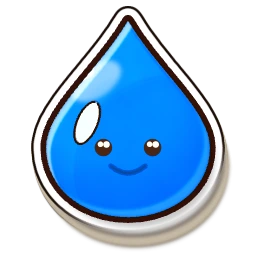
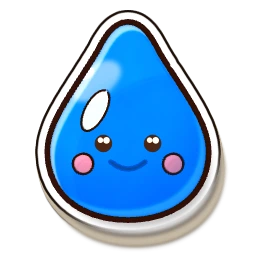
Charmfall: Coral Cove charms. The watercolour storybook keeps its hand and moves to the sea: forty-four charms in six colour rows (starfish, clownfish, scallop, sea turtle, whale, octopus and the ones that arrive every twenty levels), one table in prism/anim/charms-sea.js that the game takes as its 

Changed region(s): [[0.0938, 0.0, 0.9062, 0.875], [0.5625, 0.7812, 0.75, 0.875]]

diff --git a/anim/charms-sea.js b/anim/charms-sea.js
@@ -1,0 +1,78 @@
+// Coral Cove (Mercan Körfezi, 2026-11-10): İdris kept the watercolour storybook and chose a new world for it, the sea. These are its charms:
+// six colour families, one row each, in the order they arrive (two rows change a charm every twenty levels, see rotV in index.html).
+// Shapes in a 100 x 100 box, same format as BLA: b = body parts, d = details. Every body part runs clockwise on screen, because the parts
+// are joined with the non-zero rule and a part wound the other way cuts a hole where it overlaps its neighbour.
+// index.html takes SEA_BL as BL and merges SEA_SHAPES into BLA; bake-charms.cjs paints anim/ch-<name>.webp from the same table.
+(() => {
+  const P = Math.PI, G = "#5cc86e", BR = "#8a5a34", CR = "#fff4e2", OR = "#ffad5a", PK = "#ffb0c4", DK = "#1c1420", YL = "#ffe27a", BLU = "#3a78c8";
+  const star = (n, ro, ri, cx, cy, rot = 0) => ["p", Array.from({ length: n * 2 }, (_, i) => { const r = i % 2 ? ri : ro, a = -P / 2 + rot + i * P / n; return [cx + Math.cos(a) * r, cy + Math.sin(a) * r]; })];
+  const face = (y, w, cx = 50) => [["k", cx - w, y, 4.5], ["k", cx + w, y, 4.5], ["d", cx - w + 1.5, y - 1.5, 1.6], ["d", cx + w + 1.5, y - 1.5, 1.6], ["S", `M${cx - w * .7} ${y + 9} Q${cx} ${y + 16} ${cx + w * .7} ${y + 9}`, 3.4]];
+  const cheeks = (y, w, cx = 50) => [["f", ["c", cx - w, y, 5], PK], ["f", ["c", cx + w, y, 5], PK]];
+  const eye = (x, y, r = 4.6) => [["k", x, y, r], ["d", x - r * .3, y - r * .3, r * .36]];
+  const bigEye = (x, y, r = 9) => [["w", ["c", x, y, r]], ["k", x + r * .1, y + r * .1, r * .55], ["d", x - r * .15, y - r * .2, r * .2]];
+  const puffStar = (() => { let d = ""; for (let k = 0; k < 5; k++) { const a = -P / 2 + k * 2 * P / 5, a2 = a + P / 5, a0 = a - P / 5, pt = (ang, r) => `${(50 + Math.cos(ang) * r).toFixed(1)} ${(54 + Math.sin(ang) * r).toFixed(1)}`;
+    d += (k ? "L" : "M") + pt(a0, 22) + ` C${pt(a - .22, 40)} ${pt(a - .16, 50)} ${pt(a, 50)} C${pt(a + .16, 50)} ${pt(a + .22, 40)} ${pt(a2, 22)} `; } return d + "Z"; })();
+  const WHALE = "M4 58 C4 34 26 24 50 26 C74 28 88 42 88 58 C86 80 64 90 42 90 C20 90 4 78 4 58 Z";
+
+  const S = {
+    // ---------------- rose: slot 0 ----------------
+    starfish: { b: [puffStar], d: [...face(52, 8), ...cheeks(60, 15), ...[[50, 22], [50, 34], [24, 46], [76, 46], [34, 80], [66, 80]].map(([x, y]) => ["o", x, y])] },
+    crab: { b: [["c", 13, 30, 13], ["c", 87, 30, 13], "M14 36 L26 34 L34 56 L22 60 Z", "M86 36 L78 60 L66 56 L74 34 Z", ["e", 12, 74, 11, 5.5, -.5], ["e", 88, 74, 11, 5.5, .5], ["e", 20, 88, 10, 5, -.3], ["e", 80, 88, 10, 5, .3], ["c", 38, 26, 9], ["c", 62, 26, 9], "M34 30 L42 30 L44 44 L36 44 Z", "M58 30 L66 30 L64 44 L56 44 Z", ["e", 50, 64, 35, 27, 0]],
+      d: [...bigEye(38, 26, 6.5), ...bigEye(62, 26, 6.5), ["S", "M6 24 L16 31 M94 24 L84 31", 3], ["S", "M40 70 Q50 79 60 70", 3.4], ...cheeks(68, 22), ["w", ["e", 38, 48, 9, 4, -.3]]] },
+    coral: { b: [["e", 50, 76, 10, 22, 0], ["e", 36, 52, 9, 24, -.5], ["e", 64, 52, 9, 24, .5], ["e", 50, 36, 9, 28, 0], ["e", 20, 58, 7.5, 16, -1.15], ["e", 80, 58, 7.5, 16, 1.15], ["c", 50, 10, 10], ["c", 25, 30, 10], ["c", 75, 30, 10], ["c", 7, 52, 8], ["c", 93, 52, 8], ["e", 50, 95, 30, 5, 0]], d: [["w", ["e", 46, 9, 4, 2.4, -.4]], ["w", ["e", 22, 28, 4, 2.4, -.4]], ["w", ["e", 72, 28, 4, 2.4, -.4]], ...[[50, 30], [50, 52], [36, 50], [64, 50], [50, 74], [22, 56], [78, 56]].map(([x, y]) => ["o", x, y])] },
+    lifebuoy: { b: [["c", 50, 50, 46]], d: [["w", "M36 6 L64 6 L60 30 L40 30 Z"], ["w", "M36 94 L64 94 L60 70 L40 70 Z"], ["w", "M6 36 L6 64 L30 60 L30 40 Z"], ["w", "M94 36 L94 64 L70 60 L70 40 Z"], ["f", ["c", 50, 50, 20], "#eadfc8"], ["S", "M50 30 A20 20 0 1 1 49.9 30", 2.6]] },
+    anemone: { b: [...[-3, -2, -1, 0, 1, 2, 3].map(k => ["e", 50 + k * 12.5, 36 + Math.abs(k) * 4, 7.5, 26 - Math.abs(k) * 2, k * .2]), "M10 98 C10 68 28 56 50 56 C72 56 90 68 90 98 Z"], d: [...[-3, -2, -1, 0, 1, 2, 3].map(k => ["w", ["c", 50 + k * 12.5 - Math.sin(k * .2) * 20, 16 + Math.abs(k) * 6.5, 3.2]]), ...face(76, 12), ...cheeks(86, 24)] },
+    sailboat: { b: ["M4 66 L96 66 C92 84 78 96 60 96 L38 96 C22 96 8 84 4 66 Z", "M54 2 C78 18 90 40 92 60 L54 60 Z", "M46 14 L46 60 L10 60 C14 40 28 22 46 14 Z"], d: [["w", "M58 12 C74 26 82 42 85 55 L58 55 Z"], ["w", "M42 24 L42 55 L18 55 C22 42 30 31 42 24 Z"], ["S", "M50 4 L50 66", 3.4], ["s", "M12 74 L88 74", 2.4], ["w", ["c", 36, 84, 4.5]], ["w", ["c", 64, 84, 4.5]]] },
+    snapper: { b: ["M30 26 L38 6 L48 16 L58 6 L66 28 Z", "M4 52 C14 30 40 20 62 28 C70 32 76 38 80 44 L98 26 C94 44 94 60 98 78 L80 60 C74 74 56 86 36 84 C20 82 8 68 4 52 Z"], d: [...bigEye(24, 46, 7.5), ["S", "M40 34 Q48 54 40 76", 2.8], ["S", "M8 60 Q14 65 20 61", 3], ["w", "M14 66 C30 80 56 80 72 66 C58 84 28 86 14 66 Z"], ["f", "M48 56 L64 52 L58 68 Z", OR]] },
+    cockle: { b: ["M50 24 C58 6 96 8 94 40 C92 66 66 82 50 96 C34 82 8 66 6 40 C4 8 42 6 50 24 Z"], d: [["S", "M50 30 L50 90", 2.6], ["S", "M34 22 Q30 54 44 84", 2.4], ["S", "M66 22 Q70 54 56 84", 2.4], ["S", "M18 30 Q16 52 32 72", 2.2], ["S", "M82 30 Q84 52 68 72", 2.2], ["w", ["e", 26, 28, 6, 10, .5]]] },
+    // ---------------- orange: slot 1 ----------------
+    clown: { b: ["M66 50 L96 20 C90 40 90 60 96 80 Z", ["e", 42, 50, 38, 31, 0]], d: [["w", "M30 21 Q22 50 30 79 L42 81 Q34 50 42 19 Z"], ["w", "M58 22 Q52 50 58 78 L67 73 Q62 50 67 27 Z"], ["f", "M40 20 C46 8 58 8 62 20 Z", OR], ...eye(18, 46, 5), ["S", "M10 58 Q16 63 22 59", 3]] },
+    nautilus: { b: [["e", 80, 66, 19, 24, .25], ["c", 44, 50, 40]], d: [["f", ["e", 82, 68, 12, 17, .25], CR], ["S", "M46 52 C46 44 56 42 60 50 C64 60 54 70 42 68 C28 66 22 48 30 36 C38 24 60 20 74 34", 3], ["S", "M30 36 L14 28 M24 52 L6 54 M34 66 L22 82 M52 70 L52 88", 2.4], ...eye(82, 64, 4), ["S", "M78 74 Q82 77 86 74", 2]] },
+    goldfish: { b: ["M66 50 L96 22 C90 40 90 60 96 78 Z", ["e", 42, 50, 38, 32, 0]], d: [["f", "M36 20 C42 8 58 8 62 20 Z", OR], ["f", "M34 80 C40 90 52 92 56 80 Z", OR], ...bigEye(24, 44, 9), ["S", "M42 62 Q48 66 54 62", 3], ["S", "M50 34 Q56 50 50 66", 2.6]] },
+    seahorse: { b: ["M42 6 C60 2 74 14 74 30 C74 40 70 46 72 56 C76 70 72 84 58 92 C44 98 28 92 28 78 C28 66 42 62 50 70 C54 76 50 84 44 80 C46 88 58 86 60 76 C62 66 52 60 48 52 C44 44 46 38 42 34 L22 40 C14 41 12 32 20 30 L38 24 C34 16 36 8 42 6 Z", "M72 36 C86 34 92 48 78 58 Z"], d: [...eye(52, 22, 4.4), ["f", "M72 38 C82 38 86 46 78 54 Z", YL], ["S", "M52 42 L62 40 M54 52 L66 52 M60 64 L70 66", 2.4], ["f", ["c", 44, 30, 4], PK], ["w", ["e", 60, 14, 6, 3, .5]]] },
+    buoy: { b: [["c", 50, 10, 9], "M40 14 L60 14 L72 60 C88 62 98 70 98 80 C98 92 76 98 50 98 C24 98 2 92 2 80 C2 70 12 62 28 60 Z"], d: [["f", ["c", 50, 10, 6], YL], ["w", "M37 28 L63 28 L67 44 L33 44 Z"], ["w", "M6 78 C20 72 80 72 94 78 C92 84 80 88 50 88 C20 88 8 84 6 78 Z"], ["s", "M44 18 L56 18", 2]] },
+    anchor: { b: [["c", 50, 13, 13], "M42 22 L58 22 L58 84 L42 84 Z", "M24 32 C24 29 26 28 28 28 L72 28 C74 28 76 29 76 32 L76 40 C76 43 74 44 72 44 L28 44 C26 44 24 43 24 40 Z", "M2 52 L24 46 L22 60 C28 74 38 80 50 80 C62 80 72 74 78 60 L76 46 L98 52 L92 74 C84 90 68 99 50 99 C32 99 16 90 8 74 Z"], d: [["f", ["c", 50, 13, 6], "#eadfc8"], ["S", "M50 7 A6 6 0 1 1 49.9 7", 2], ["w", ["e", 46, 56, 2.5, 14, 0]], ["s", "M30 34 L70 34", 2.2], ["s", "M16 76 Q32 92 50 92", 2.4]] },
+    helmet: { b: [["c", 50, 46, 42], "M12 76 L88 76 L96 98 L4 98 Z", ["c", 8, 46, 8], ["c", 92, 46, 8]], d: [["w", ["c", 50, 46, 26]], ["f", ["c", 50, 46, 20], BLU], ["d", 42, 38, 4], ["S", "M30 46 L70 46 M50 26 L50 66", 2.4], ["k", 50, 12, 3], ["k", 22, 28, 3], ["k", 78, 28, 3], ["s", "M14 86 L86 86", 2.6], ["k", 28, 92, 2.6], ["k", 50, 92, 2.6], ["k", 72, 92, 2.6]] },
+    prawn: { b: ["M8 34 C10 14 34 4 56 8 C82 12 96 34 92 56 C88 78 68 92 46 92 L30 98 L34 86 L22 90 L30 78 C46 80 64 72 68 56 C72 40 58 30 44 32 C36 34 32 40 30 46 L18 44 C10 44 6 40 8 34 Z"], d: [...eye(26, 24, 4.4), ["S", "M52 10 Q50 22 44 32", 2.6], ["S", "M72 16 Q64 28 60 36", 2.6], ["S", "M88 36 Q76 42 68 48", 2.6], ["S", "M90 60 Q78 60 68 60", 2.6], ["S", "M76 80 Q68 72 62 68", 2.6], ["S", "M12 30 Q2 22 2 10 M16 28 Q12 16 16 4", 2.4], ["f", ["c", 34, 34, 3.6], PK]] },
+    // ---------------- yellow: slot 2 ----------------
+    shell: { b: ["M50 94 L34 88 L30 78 C8 66 2 42 14 26 C24 10 40 6 50 6 C60 6 76 10 86 26 C98 42 92 66 70 78 L66 88 Z"], d: [["S", "M50 80 L20 32", 2.8], ["S", "M50 80 L34 14", 2.8], ["S", "M50 80 L50 8", 2.8], ["S", "M50 80 L66 14", 2.8], ["S", "M50 80 L80 32", 2.8], ["w", ["e", 30, 30, 5, 10, .5]]] },
+    puffer: { b: [star(14, 49, 36, 50, 52), ["c", 50, 52, 38], "M84 44 L99 34 C96 46 96 58 99 70 L84 60 Z"], d: [...bigEye(34, 44, 9), ...bigEye(62, 44, 9), ["f", ["e", 48, 66, 8, 5.5, 0], "#ff8a5a"], ["S", "M42 66 L54 66", 2.2], ["w", "M20 70 C34 86 62 86 76 70 C64 80 32 80 20 70 Z"], ...cheeks(58, 27, 48)] },
+    submarine: { b: ["M54 2 L68 2 L68 11 L61 11 L61 22 L54 22 Z", "M38 20 L64 20 C67 20 68 22 68 25 L68 42 L34 42 L34 25 C34 22 35 20 38 20 Z", ["e", 96, 62, 4, 16, 0], ["e", 48, 64, 46, 27, 0]], d: [...[24, 48, 72].flatMap(x => [["w", ["c", x, 62, 9.5]], ["f", ["c", x, 62, 6.5], BLU], ["d", x - 2, 60, 1.8]]), ["s", "M10 80 Q48 92 86 80", 2.6], ["S", "M36 42 L66 42", 2.6], ["w", ["e", 30, 44, 10, 3, -.2]]] },
+    angelfish: { b: ["M6 50 C18 34 32 28 44 26 L62 0 L66 28 C76 34 82 42 84 46 L99 28 C95 44 95 56 99 72 L84 54 C82 58 76 66 66 72 L62 100 L44 74 C32 72 18 66 6 50 Z"], d: [["f", "M36 28 L46 26 Q40 50 46 74 L36 72 Q30 50 36 28 Z", DK], ["f", "M58 22 L66 28 Q62 50 66 72 L58 80 Q52 50 58 22 Z", DK], ...eye(20, 46, 4.4), ["S", "M10 56 Q15 60 20 57", 2.6], ["w", ["e", 50, 14, 3, 7, .5]]] },
+    coin: { b: [["c", 50, 50, 46]], d: [["S", "M50 14 A36 36 0 1 1 49.9 14", 3], ["f", star(5, 22, 10, 50, 51), "#c8860a"], ["w", ["e", 28, 26, 9, 4, -.7]], ...[0, 1, 2, 3, 4, 5, 6, 7].map(k => ["o", 50 + Math.cos(k * P / 4 + .4) * 41, 50 + Math.sin(k * P / 4 + .4) * 41])] },
+    sandcastle: { b: ["M50 20 L50 0 L68 7 L50 14 Z", "M6 98 L12 54 L88 54 L94 98 Z", "M10 56 L10 30 L18 30 L18 36 L24 36 L24 30 L32 30 L32 56 Z", "M68 56 L68 30 L76 30 L76 36 L82 36 L82 30 L90 30 L90 56 Z", "M36 56 L36 16 L44 16 L44 23 L56 23 L56 16 L64 16 L64 56 Z"], d: [["f", "M51 1 L67 7 L51 13 Z", "#e8304a"], ["f", "M41 98 L41 78 C41 68 59 68 59 78 L59 98 Z", "#8a5a34"], ["k", 21, 46, 3.4], ["k", 79, 46, 3.4], ["k", 50, 38, 4], ["s", "M14 64 L86 64", 2.2], ...[[24, 78], [76, 80], [30, 90], [70, 68]].map(([x, y]) => ["o", x, y])] },
+    crown: { b: ["M6 86 L2 26 L28 50 L50 8 L72 50 L98 26 L94 86 C80 94 20 94 6 86 Z", ["c", 2, 24, 6], ["c", 50, 8, 7], ["c", 98, 24, 6]], d: [["f", ["c", 50, 66, 8], "#e8304a"], ["f", ["c", 26, 70, 5.5], BLU], ["f", ["c", 74, 70, 5.5], BLU], ["d", 48, 64, 2.2], ["S", "M8 80 Q50 90 92 80", 2.8], ["w", ["e", 40, 34, 3, 9, .5]]] },
+    // ---------------- green: slot 3 ----------------
+    turtle: { b: [["c", 86, 56, 13], ["e", 22, 84, 11, 8, 0], ["e", 68, 84, 11, 8, 0], "M4 72 C4 36 24 14 48 14 C72 14 92 36 92 72 Z"], d: [["f", "M30 44 L48 32 L66 44 L62 62 L34 62 Z", "#137a26"], ["S", "M48 14 L48 32 M30 44 L12 40 M66 44 L84 40 M34 62 L24 72 M62 62 L72 72", 3], ...eye(90, 52, 3), ["S", "M86 62 Q90 65 94 62", 2.2]] },
+    kelp: { b: ["M38 96 C22 78 50 64 36 46 C24 30 50 18 44 0 C68 16 52 34 62 50 C76 68 50 80 62 96 Z", "M16 96 C8 82 26 74 18 60 C12 50 24 44 22 34 C38 46 28 58 34 70 C40 82 28 88 34 96 Z", "M66 96 C62 86 76 78 70 66 C66 58 76 52 76 44 C90 56 80 64 84 74 C88 84 80 90 84 96 Z", ["e", 50, 95, 44, 5, 0]], d: [["S", "M44 10 C54 28 38 44 50 60 C58 72 46 84 50 94", 2.4], ["S", "M24 42 C30 54 20 64 28 76 C32 84 26 90 26 94", 2], ["S", "M76 50 C82 60 72 68 78 78 C82 86 76 90 76 94", 2], ["w", ["e", 40, 24, 3, 7, .3]]] },
+    bottle: { b: ["M39 0 L61 0 L61 12 L58 12 L58 30 C76 36 86 48 86 62 L86 86 C86 93 81 98 74 98 L26 98 C19 98 14 93 14 86 L14 62 C14 48 24 36 42 30 L42 12 L39 12 Z"], d: [["f", "M40 1 L60 1 L60 11 L40 11 Z", "#a8703c"], ["f", "M30 56 L68 50 L71 78 L33 84 Z", CR], ["S", "M36 64 L62 60 M37 72 L63 68", 2], ["f", "M47 52 L55 51 L58 82 L50 83 Z", "#e8304a"], ["w", ["e", 23, 62, 3, 14, 0]], ["s", "M44 16 L56 16", 2]] },
+    palm: { b: ["M50 32 C36 26 20 24 4 30 C14 12 36 8 52 22 Z", "M48 22 C64 8 86 12 96 30 C80 24 64 26 50 32 Z", "M44 32 C34 20 24 10 10 6 C26 2 42 12 50 28 Z", "M50 28 C58 12 74 2 90 6 C76 10 66 20 56 32 Z", "M50 40 C38 40 26 46 14 56 C20 40 34 30 48 30 Z", "M52 30 C66 30 80 40 86 56 C74 46 62 40 50 40 Z", ["c", 51, 29, 9], "M44 86 C42 66 44 50 47 34 L57 34 C56 50 56 68 58 86 Z", ["e", 50, 88, 46, 11, 0]], d: [["f", "M45.5 84 C43.5 66 45.5 50 48 36 L56 36 C55 50 55 68 56.5 84 Z", "#a8703c"], ["S", "M46 48 L56 49 M45 59 L56 60 M45 70 L57 71", 2.2], ["f", ["e", 50, 88, 44, 9.5, 0], "#f0d48a"], ["k", 46, 34, 4.4], ["k", 56, 35, 4.4], ["S", "M10 28 Q30 20 46 26 M90 28 Q70 20 54 26", 2]] },
+    mertail: { b: ["M50 98 C28 82 28 60 38 44 C42 36 44 30 42 24 C28 28 12 20 4 4 C24 2 42 6 50 18 C58 6 76 2 96 4 C88 20 72 28 58 24 C56 30 58 36 62 44 C72 60 72 82 50 98 Z"], d: [["s", "M36 56 Q43 50 50 56 Q57 50 64 56", 2.4], ["s", "M34 68 Q42 62 50 68 Q58 62 66 68", 2.4], ["s", "M40 80 Q45 75 50 80 Q55 75 60 80", 2.4], ["S", "M12 8 Q30 12 44 22 M88 8 Q70 12 56 22", 2.2], ["w", ["e", 40, 42, 3, 6, .4]]] },
+    eel: { b: ["M6 30 C6 14 24 6 40 10 C58 14 64 30 56 44 C50 54 38 58 40 68 C42 76 54 78 64 74 C76 70 86 58 98 62 C96 80 80 94 58 96 C36 98 18 88 16 70 C14 54 30 46 36 36 C38 32 34 30 30 32 C22 38 8 40 6 30 Z"], d: [...bigEye(24, 20, 6), ["S", "M8 30 Q16 34 24 31", 2.6], ["s", "M44 16 C56 22 56 34 48 44 C40 52 30 58 30 70 C30 82 44 90 60 88", 2.4], ...[[46, 28], [26, 62], [36, 84], [70, 84], [84, 72]].map(([x, y]) => ["o", x, y])] },
+    wrasse: { b: ["M34 28 C42 12 60 12 66 30 Z", "M70 50 L98 24 C93 42 93 58 98 76 Z", "M4 50 C10 30 30 22 48 22 C66 22 78 34 82 50 C78 66 66 78 48 78 C30 78 10 70 4 50 Z"], d: [...bigEye(24, 44, 8), ["S", "M38 28 Q46 50 38 72", 2.6], ["s", "M52 36 Q58 50 52 64", 2.4], ["s", "M64 40 Q68 50 64 60", 2.4], ["S", "M8 56 Q14 61 20 57", 2.8], ["f", "M40 78 C46 88 56 88 58 76 Z", YL]] },
+    // ---------------- blue: slot 4 ----------------
+    whale: { b: ["M78 50 L92 26 C100 42 98 60 88 68 Z", WHALE], d: [...eye(24, 52, 4.2), ["w", "M10 70 C28 84 56 86 76 74 C60 92 22 92 10 70 Z"], ["S", "M12 62 Q18 67 24 63", 3], ["f", ["c", 34, 62, 5], PK], ["S", "M46 26 Q42 14 34 12 M48 26 Q52 14 60 12", 2.6]] },
+    dolphin: { b: ["M50 24 C54 10 66 4 76 6 C72 14 72 22 74 28 Z", "M2 50 L16 46 C26 30 46 22 64 26 C82 30 94 44 98 62 C98 72 96 84 92 96 L84 82 L70 88 C76 80 78 72 76 66 C64 70 50 70 38 66 C28 64 20 60 14 58 Z", "M44 64 C40 78 30 84 22 84 C26 76 28 70 30 62 Z"], d: [...eye(34, 44, 4.2), ["w", "M18 56 C34 66 58 68 76 62 C62 72 34 72 18 56 Z"], ["S", "M6 51 Q14 54 22 52", 2.6], ["f", ["c", 42, 52, 4], PK]] },
+    drop: { b: ["M50 4 C56 4 60 10 64 18 C76 38 88 52 88 66 C88 86 72 98 50 98 C28 98 12 86 12 66 C12 52 24 38 36 18 C40 10 44 4 50 4 Z"], d: [...face(62, 12), ...cheeks(72, 22), ["w", ["e", 34, 46, 5, 11, .5]]] },
+    wave: { b: ["M2 98 L2 62 C2 30 26 6 56 6 C80 6 96 22 96 40 C96 56 84 66 72 62 C62 58 60 48 66 42 C54 40 44 50 46 62 C48 78 66 84 98 84 L98 98 Z"], d: [["w", "M8 60 C10 34 30 12 56 12 C76 12 90 24 90 40 C90 50 82 58 74 56 C84 50 84 36 76 28 C62 16 30 22 20 56 C18 64 18 74 22 84 L8 84 Z"], ["s", "M30 74 Q38 88 60 90", 2.4], ["s", "M34 60 Q36 72 46 78", 2.2], ["w", ["c", 90, 70, 3.2]], ["w", ["c", 80, 74, 2.4]]] },
+    shark: { b: ["M46 36 L58 6 C70 16 76 30 76 42 Z", "M2 56 C16 38 40 32 62 36 C76 38 86 46 90 50 L99 30 C96 46 96 62 99 80 L88 64 C76 78 54 84 36 80 C20 76 8 68 2 56 Z", "M40 78 L34 96 L56 82 Z"], d: [...eye(22, 50, 4), ["w", "M6 60 C22 76 52 80 80 66 C60 84 24 84 6 60 Z"], ["w", "M8 60 L12 66 L16 61 L20 67 L24 62 L28 68 L32 63 L32 60 Z"], ["S", "M42 46 L42 62 M48 46 L48 62 M54 46 L54 62", 2.4], ["S", "M6 59 L34 60", 2.2]] },
+    narwhal: { b: ["M14 44 L0 6 L24 38 Z", "M80 52 L94 28 C100 44 98 62 90 70 Z", "M6 60 C6 36 28 26 52 28 C76 30 90 44 90 60 C88 82 66 92 44 92 C22 92 6 80 6 60 Z"], d: [["f", "M14 42 L2 10 L22 38 Z", CR], ["S", "M6 20 L12 24 M9 29 L16 32", 1.8], ...eye(26, 54, 4.2), ["w", "M12 72 C30 86 58 88 78 76 C62 94 24 94 12 72 Z"], ["S", "M14 64 Q20 69 26 65", 3], ["f", ["c", 36, 64, 5], PK], ...[[56, 42], [68, 50], [50, 54]].map(([x, y]) => ["o", x, y])] },
+    manta: { b: ["M36 20 C34 12 38 6 42 6 L44 22 Z", "M64 20 C66 12 62 6 58 6 L56 22 Z", "M50 16 C58 16 62 20 66 26 C80 28 94 38 99 52 C84 50 72 56 62 66 C58 72 55 82 53 99 L47 99 C45 82 42 72 38 66 C28 56 16 50 1 52 C6 38 20 28 34 26 C38 20 42 16 50 16 Z"], d: [...eye(40, 36, 3.8), ...eye(60, 36, 3.8), ["S", "M44 46 Q50 51 56 46", 2.8], ...cheeks(44, 18), ["w", ["e", 22, 42, 7, 3, -.3]], ["w", ["e", 78, 42, 7, 3, .3]], ["s", "M44 58 L56 58 M45 64 L55 64", 2]] },
+    // ---------------- violet: slot 5 ----------------
+    octopus: { b: ["M50 6 C78 6 92 28 90 48 C89 58 86 62 88 70 C90 80 98 80 98 88 C98 97 82 97 78 86 C76 80 74 74 70 76 C66 78 70 90 64 95 C58 99 52 92 54 82 C55 78 52 76 50 76 C48 76 45 78 46 82 C48 92 42 99 36 95 C30 90 34 78 30 76 C26 74 24 80 22 86 C18 97 2 97 2 88 C2 80 10 80 12 70 C14 62 11 58 10 48 C8 28 22 6 50 6 Z"], d: [...face(42, 13), ...cheeks(52, 24), ["w", ["e", 30, 20, 8, 4, -.5]]] },
+    jellyfish: { b: ["M8 56 C8 26 28 8 50 8 C72 8 92 26 92 56 C80 64 20 64 8 56 Z", "M20 60 C16 72 26 80 20 94 C28 88 30 76 28 62 Z", "M40 62 C36 76 46 84 40 98 C48 90 50 78 48 63 Z", "M60 63 C56 78 66 86 60 98 C68 90 70 76 66 62 Z", "M78 60 C74 74 84 82 78 94 C86 86 88 72 84 58 Z"], d: [...face(36, 13), ["w", ["e", 28, 22, 8, 4, -.5]], ...cheeks(44, 24)] },
+    urchin: { b: [star(16, 50, 34, 50, 52), ["c", 50, 52, 36]], d: [...face(48, 11), ...cheeks(58, 21), ["w", ["e", 36, 30, 7, 3.5, -.5]]] },
+    squid: { b: ["M30 34 L8 22 C6 36 14 48 30 50 Z", "M70 34 L92 22 C94 36 86 48 70 50 Z", "M50 0 C64 12 72 30 72 48 L72 58 C78 60 80 66 78 70 L80 94 L71 97 L67 76 L63 76 L61 99 L53 99 L50 78 L47 99 L39 99 L37 76 L33 76 L29 97 L20 94 L22 70 C20 66 22 60 28 58 L28 48 C28 30 36 12 50 0 Z"], d: [...face(52, 10), ...cheeks(62, 18), ["w", ["e", 42, 22, 3.5, 9, .3]]] },
+    clam: { b: ["M4 46 C8 20 28 4 50 4 C72 4 92 20 96 46 C82 56 18 56 4 46 Z", "M4 56 C18 48 82 48 96 56 C92 82 72 96 50 96 C28 96 8 82 4 56 Z"], d: [["f", "M10 48 C30 42 70 42 90 48 C88 56 12 56 10 48 Z", "#3a1850"], ["w", ["c", 50, 52, 11]], ["d", 46, 48, 3], ["S", "M50 6 L50 40 M30 10 L36 42 M70 10 L64 42 M14 26 L22 44 M86 26 L78 44", 2.4], ["S", "M50 66 L50 94 M30 64 L34 90 M70 64 L66 90", 2.4]] },
+    snail: { b: ["M6 80 C6 70 14 66 22 68 L20 50 C18 44 26 42 28 48 L32 66 C36 40 54 22 72 26 C90 30 98 48 94 66 C92 78 86 86 90 92 C70 98 26 98 10 92 C6 90 6 84 6 80 Z"], d: [["S", "M66 60 C66 52 76 50 80 58 C84 68 74 78 62 76 C48 74 44 56 52 46 C60 36 78 34 88 46", 3], ...eye(16, 76, 3.2), ["S", "M10 84 Q14 87 18 84", 2.2], ["w", ["e", 60, 34, 7, 3, -.4]], ["k", 24, 46, 3]] },
+    angler: { b: ["M38 28 C36 8 54 0 68 8 L64 15 C56 10 46 14 46 28 Z", ["c", 72, 12, 9], "M76 58 L99 40 C95 54 95 66 99 80 Z", ["c", 44, 60, 38]], d: [["f", ["c", 72, 12, 6.5], YL], ["d", 70, 10, 2], ...bigEye(32, 48, 10), ["f", "M12 70 C24 62 48 62 60 70 C50 86 22 86 12 70 Z", "#2a1038"], ["w", "M16 69 L21 77 L26 68 L31 77 L36 67 L41 77 L46 68 L51 77 L56 69 Z"], ["S", "M64 44 Q70 58 64 74", 2.6]] },
+  };
+  window.SEA_SHAPES = S;
+  window.SEA_BL = [["starfish", "crab", "coral", "lifebuoy", "anemone", "sailboat", "snapper", "cockle"], ["clown", "nautilus", "goldfish", "seahorse", "buoy", "anchor", "helmet", "prawn"], ["shell", "puffer", "submarine", "angelfish", "coin", "sandcastle", "crown"], ["turtle", "kelp", "bottle", "palm", "mertail", "eel", "wrasse"], ["whale", "dolphin", "drop", "wave", "shark", "narwhal", "manta"], ["octopus", "jellyfish", "urchin", "squid", "clam", "snail", "angler"]];
+  window.SEA_LBL = { starfish: "Starfish", crab: "Crab", coral: "Coral", lifebuoy: "Lifebuoy", anemone: "Sea Anemone", sailboat: "Sailboat", snapper: "Red Snapper", cockle: "Heart Cockle",
+    clown: "Clownfish", nautilus: "Nautilus", goldfish: "Goldfish", seahorse: "Seahorse", buoy: "Buoy", anchor: "Anchor", helmet: "Diver's Helmet", prawn: "Prawn",
+    shell: "Scallop", puffer: "Pufferfish", submarine: "Submarine", angelfish: "Angelfish", coin: "Doubloon", sandcastle: "Sandcastle", crown: "Sunken Crown",
+    turtle: "Sea Turtle", kelp: "Kelp", bottle: "Message Bottle", palm: "Palm Island", mertail: "Mermaid Tail", eel: "Moray Eel", wrasse: "Green Wrasse",
+    whale: "Whale", dolphin: "Dolphin", drop: "Water Drop", wave: "Wave", shark: "Little Shark", narwhal: "Narwhal", manta: "Manta Ray",
+    octopus: "Octopus", jellyfish: "Jellyfish", urchin: "Sea Urchin", squid: "Squid", clam: "Pearl Clam", snail: "Sea Snail", angler: "Anglerfish" };
+})();

diff --git a/index.html b/index.html
@@ -998,6 +998,7 @@ html.app #game > .bar s.hit::after { color: #fffaf0 !important; text-shadow: 1px
 <script src="anim/pogo-anim.js"></script>
 <script src="anim/fx-anim.js"></script>
 <script src="anim/ui-keys.js"></script>
+<script src="anim/charms-sea.js"></script>
 <script src="../games/arcade.js"></script>
 <script>Arcade.gfx.matte(1.18, 1.03);</script>
 <script>
@@ -1611,7 +1612,7 @@ const STAR = 1000, starsOf = (pts) => Math.floor(pts / STAR);
 LEVELS.forEach((L) => { if (L.target) L.target = Math.max(STAR, Math.round(L.target / STAR) * STAR); });
 const BOOST0 = { hammer: 3, moves: 3, switch: 3, cross: 2, undo: 3 };
 // carrots are earned at a quarter of the old rate: every award is scaled, the remainder waits in the jar (save.carrotFrac) until a whole carrot is due
-const ART_Q = location.protocol === "file:" ? "" : "?v=1102b";   /* bump when the painted art in anim/ is baked again, so no browser keeps an old picture (the iOS app reads files, no query there) */
+const ART_Q = location.protocol === "file:" ? "" : "?v=1110a";   /* bump when the painted art in anim/ is baked again, so no browser keeps an old picture (the iOS app reads files, no query there) */
 const RWM = 2, BXM = 4;   /* 2026-10-29 İdris "ödül kazanmayı yarı yarıya indir, çok fazla booster kazanıyorum": carrots and ∞ lives x2 (was 4), boosters x4 (was 8) */
 const CARROT_RATE = .03125;   // 2026-10-27 İdris: rewards come half as often (the amount of each stays the same)
 function addCarrots(n) { save.carrotFrac = (save.carrotFrac || 0) + n * CARROT_RATE; const give = Math.floor(save.carrotFrac + 1e-9); save.carrotFrac -= give; save.carrots = (save.carrots || 0) + RWM * (give); carrotNew += RWM * (give); return give; }
@@ -4671,6 +4672,8 @@ const BLA = (() => {
     snail: { b: [["c", 58, 48, 38]], d: [["f", "M2 90 C2 76 10 66 22 66 L22 40 C22 30 34 30 34 40 L34 78 L96 82 C98 92 92 96 84 96 L10 96 C4 96 2 94 2 90 Z", "#ffcf8a"], ["S", "M58 48 m-6 0 a6 6 0 1 1 12 0 a14 14 0 1 1 -26 0 a22 22 0 1 1 44 0 a30 30 0 1 1 -58 6", 3.6], ["k", 28, 44, 3.6], ["S", "M24 34 L18 22 M32 34 L36 20", 3]] },
   };
 })();
+// 2026-11-10 Coral Cove: the sea charms (anim/charms-sea.js) are the set now; the woodland shapes above stay only for the older painters
+if (window.SEA_BL) { BL.length = 0; BL.push(...SEA_BL); Object.assign(BLA, SEA_SHAPES); Object.assign(BL_LBL, SEA_LBL); }
 NEWGEMS.forEach((C, j) => { if (j < 24) C.label = BL_LBL[BL[j % 6][1 + Math.floor(j / 6)]] || C.label; }); COLORS.forEach((C, j) => { C.label = BL_LBL[BL[j][0]]; });
 const boldCache = new Map();
 // 2026-10-20: İdris "biraz daha gerçeğe benzet ve 3 boyutluluk kat": the same plump charms lit like real objects: a key light from the upper left, a dark core shadow on the far side, a bounce light on the rim, a hard specular spot, a thin dark contour
@@ -5213,7 +5216,8 @@ const TR = {
   "Swap two charms. Four in a row: striped. Five: rainbow. A square: firefly.": "İki tılsımın yerini değiştir. Dört sıra: çizgili. Beş: gökkuşağı. Kare: ateş böceği.",
   "Mordo the magpie stole the garden's charms. Win them back!": "Saksağan Mordo bahçenin tılsımlarını çaldı. Hepsini geri kazan!", "Four charms in a square call a firefly. Mordo waits at the tenth stop.": "Kare dizilen dört tılsım ateş böceği çağırır. Mordo onuncu durakta.", "Ticking gems count down every move: match them before zero.": "Tik tak taşları her hamlede azalır: sıfıra inmeden eşleştir.", "Win levels in a row and Pogo leaves gifts on the board.": "Üst üste kazan, Pogo tahtaya hediye bıraksın.", "Crates open to their own colour. Stone needs a special gem.": "Sandık kendi rengiyle açılır. Taşı yalnız özel taş kırar.", "Half way. Mordo is nervous, and every level gets harder.": "Yarı yol. Mordo tedirgin, her seviye biraz daha zor.", "Build in the garden with your stars: each piece sends a booster.": "Yıldızlarınla bahçede inşa et: her parça bir güçlendirici getirir.", "Only the moon lights the bridge. Keep your win streak alive.": "Köprüyü yalnız ay aydınlatıyor. Galibiyet serini koru.", "Every tree here hides something stolen. Mordo's hardest stretch.": "Buradaki her ağaç çalıntı bir şey saklıyor. Mordo'nun en zor yeri.", "The nest sits at the top of the pine. Ten levels to the last charm.": "Yuva çamın tepesinde. Son tılsıma on seviye.", "Half the charms crossed the water. Crates and stone come together now.": "Tılsımların yarısı denizi geçti. Artık sandık ve taş bir arada.", "The seeds lie deeper here: bring each one down to the soil.": "Tohumlar burada daha derinde: her birini toprağa indir.", "Ash lies twice as thick here: clear each patch twice.": "Kül burada iki kat kalın: her parçayı iki kez temizle.", "A wide beach, and the countdown gems come faster.": "Geniş bir kumsal, geri sayım taşları daha sık geliyor.", "Fog hides half the board. Gritt guards every tenth stop.": "Sis tahtanın yarısını saklıyor. Her onuncu durağı Gritt bekliyor.", "A narrow path and tougher boards. Keep a special gem in reserve.": "Yol daralıyor, tahtalar sertleşiyor. Yedekte bir özel taş tut.", "An old hedgehog trades the charms back for cleared boards.": "Yaşlı bir kirpi tılsımları temizlenen tahtalara karşılık geri veriyor.", "Stone and crates on every board. Specials are the way through.": "Her tahtada taş ve sandık. Geçmenin yolu özel taşlar.", "Six colours, long boards, and the flock's hoard at the end.": "Altı renk, uzun tahtalar ve sonunda sürünün hazinesi.", "Gritt's roost. Ten levels to the far shore's last charm.": "Gritt'in tüneği. Uzak kıyının son tılsımına on seviye.", "One grey stripe is left in the north. Every board is tough now.": "Kuzeyde tek bir gri şerit kaldı. Artık her tahta zorlu.", "Corvin the raven took the north's light. New charms every 20 levels.": "Kuzgun Corvin kuzeyin ışığını aldı. Her 20 seviyede yeni tılsımlar.", "The falls froze under Corvin. Win the charms and the water runs again.": "Şelale Corvin geçince dondu. Tılsımları kazan, su yine aksın.", "Corvin keeps the northern lights in a jar. Mordo has seen it.": "Corvin kuzey ışıklarını bir kavanozda saklıyor. Mordo görmüş.", "Half way north. Every charm you win opens another tree.": "Kuzeyde yarı yol. Kazandığın her tılsım bir ağaç açar.", "A dry wind. Gritt finds Corvin's feathers on every ledge.": "Kuru bir rüzgâr. Gritt her kayada Corvin'in tüylerini buluyor.", "The one place Corvin could not dim. The parrots know the way up.": "Corvin'in karartamadığı tek yer. Papağanlar yukarı yolu biliyor.", "Above the clouds the sheep graze on light, and they are hungry.": "Bulutların üstünde koyunlar ışıkla beslenir ve şimdi açlar.", "The old bear says Corvin is not cruel, only cold.": "Yaşlı ayıya göre Corvin acımasız değil, yalnızca üşüyor.", "Corvin's tower. Ten levels to the north's last charm.": "Corvin'in kulesi. Kuzeyin son tılsımına on seviye.", "The stars are going out. Pogo takes the night boat south.": "Yıldızlar sönüyor. Pogo gece teknesiyle güneye gidiyor.", "Every night Nyx the bat takes the brightest lantern.": "Yarasa Nyx her gece en parlak feneri alıp gidiyor.", "Fallen stars lie in the coral. The crabs trade them for cleared boards.": "Mercanlara yıldız düştü. Yengeçler onları temiz tahtaya karşılık verir.", "Half the grove's glow is gone, and there are bat tracks.": "Korunun ışığının yarısı gitmiş, toprakta yarasa izleri var.", "Tired fireflies stand in for the stars. Give them a night off.": "Yorgun ateş böcekleri yıldızların yerini tutuyor. Onlara bir gece izin ver.", "The bat sleeps through the sunset. The boards here are long.": "Yarasa gün batımını uyuyarak geçirir. Buranın tahtaları uzun.", "Old steps climb to a cave where strange charms grow.": "Eski basamaklar tuhaf tılsımların büyüdüğü bir mağaraya çıkıyor.", "Every bat has a star. Nyx told them the stars were lost.": "Her yarasada bir yıldız var. Nyx onlara yıldızların kaybolduğunu söylemiş.", "From the top you can see Nyx's jar of stars.": "Tepeden Nyx'in yıldız kavanozu görünüyor.", "Nyx's bell tower. Ten levels to the last star.": "Nyx'in çan kulesi. Son yıldıza on seviye.", "The stars fly home, everyone gets a carrot, and Charmwood shines.": "Yıldızlar eve dönüyor, herkes bir havuç alıyor ve Charmwood parlıyor.",
   "Lives and boosters": "Canlar ve güçlendiriciler", "A lost level costs a life. Boosters sit under the board.": "Kaybedilen seviye bir can götürür. Güçlendiriciler tahtanın altında.", "More": "Daha fazla", "Playground": "Oyun parkı",
-  "{1} d {2} h left": "{1} g {2} s kaldı", "{1} h left": "{1} s kaldı", "{1} d {2} h": "{1} g {2} s", "{1} h": "{1} s", "{1} min": "{1} dk", "Carrots": "Havuç", "Lives: a new one every 30 minutes": "Canlar: her 30 dakikada bir yenisi", "Stars to spend in Charmwood works": "Charmwood işlerinde harcanacak yıldızlar", "Carrots: feed Pogo": "Havuçlar: Pogo'yu besle", "𝕏 Share on X": "𝕏 X'te paylaş", "Prism": "Prism", "Pop": "Pop"
+  "{1} d {2} h left": "{1} g {2} s kaldı", "{1} h left": "{1} s kaldı", "{1} d {2} h": "{1} g {2} s", "{1} h": "{1} s", "{1} min": "{1} dk", "Carrots": "Havuç", "Lives: a new one every 30 minutes": "Canlar: her 30 dakikada bir yenisi", "Stars to spend in Charmwood works": "Charmwood işlerinde harcanacak yıldızlar", "Carrots: feed Pogo": "Havuçlar: Pogo'yu besle", "𝕏 Share on X": "𝕏 X'te paylaş", "Prism": "Prism", "Pop": "Pop",
+  /* Coral Cove charms (2026-11-10) */ "Starfish": "Denizyıldızı", "Crab": "Yengeç", "Coral": "Mercan", "Lifebuoy": "Can Simidi", "Sea Anemone": "Deniz Şakayığı", "Sailboat": "Yelkenli", "Red Snapper": "Mercan Balığı", "Heart Cockle": "Kalp Midyesi", "Clownfish": "Palyaço Balığı", "Nautilus": "Notilus", "Seahorse": "Denizatı", "Buoy": "Şamandıra", "Anchor": "Çapa", "Diver's Helmet": "Dalgıç Başlığı", "Prawn": "Karides", "Scallop": "Tarak", "Pufferfish": "Balon Balığı", "Submarine": "Denizaltı", "Angelfish": "Melek Balığı", "Doubloon": "Altın Sikke", "Sandcastle": "Kumdan Kale", "Sunken Crown": "Batık Taç", "Sea Turtle": "Deniz Kaplumbağası", "Kelp": "Deniz Yosunu", "Message Bottle": "Şişedeki Mektup", "Palm Island": "Palmiye Adası", "Mermaid Tail": "Denizkızı Kuyruğu", "Moray Eel": "Müren", "Green Wrasse": "Yeşil Lapin", "Dolphin": "Yunus", "Water Drop": "Su Damlası", "Little Shark": "Küçük Köpekbalığı", "Narwhal": "Deniz Gergedanı", "Manta Ray": "Vatoz", "Octopus": "Ahtapot", "Sea Urchin": "Deniz Kestanesi", "Squid": "Kalamar", "Sea Snail": "Deniz Salyangozu", "Anglerfish": "Fener Balığı"
 };
 if (save.lang === "tr" && !window.__fast) (() => {
   const exact = new Map(), tpl = [], esc = (s) => s.replace(/[.*+?^$()[\]\\|]/g, "\\$&");

diff --git a/TILSIMLAR.md b/TILSIMLAR.md
@@ -1,5 +1,22 @@
 # Charmfall tılsımları
 
+## GÜNCEL: Mercan Körfezi (2026-11-10)
+
+İdris suluboya masal kitabı tarzını koruyup dünyayı değiştirdi: orman yerine deniz altı. Taşların tek kaynağı `anim/charms-sea.js` (şekil, İngilizce ad); Türkçe adlar `index.html` içindeki `TR` sözlüğünde; görseller `anim/src/bake-charms.cjs` ile `anim/ch-<ad>.webp` olarak pişirilir. Her 20 seviyede iki renk yuvası bir sonraki taşa geçer (`rotV`).
+
+| Yuva | Renk | Taşlar (geliş sırasıyla) |
+|---|---|---|
+| 1 | Gül | Denizyıldızı, Yengeç, Mercan, Can Simidi, Deniz Şakayığı, Yelkenli, Mercan Balığı, Kalp Midyesi |
+| 2 | Turuncu | Palyaço Balığı, Notilus, Japon Balığı, Denizatı, Şamandıra, Çapa, Dalgıç Başlığı, Karides |
+| 3 | Sarı | Tarak, Balon Balığı, Denizaltı, Melek Balığı, Altın Sikke, Kumdan Kale, Batık Taç |
+| 4 | Yeşil | Deniz Kaplumbağası, Deniz Yosunu, Şişedeki Mektup, Palmiye Adası, Denizkızı Kuyruğu, Müren, Yeşil Lapin |
+| 5 | Mavi | Balina, Yunus, Su Damlası, Dalga, Küçük Köpekbalığı, Deniz Gergedanı, Vatoz |
+| 6 | Mor | Ahtapot, Denizanası, Deniz Kestanesi, Kalamar, İnci Midyesi, Deniz Salyangozu, Fener Balığı |
+
+Yeni şekil çizerken: her gövde parçası ekranda saat yönünde dönmeli (parçalar non-zero kuralıyla birleşir, ters dönen parça delik açar).
+
+Aşağısı orman dönemi kaydıdır (geçmiş).
+
 Bu dosya oyundaki her taşın ne olduğunu, hikâyedeki anlamını ve oyuna ne zaman girdiğini kaydeder.
 
 Kurallar (İdris, 2026-10-16):
